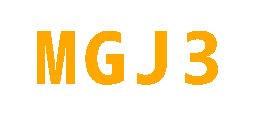
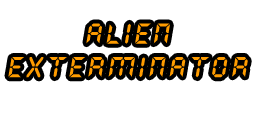
update name

diff --git a/src/MGJ3/Pages/IntroPage.cs b/src/MGJ3/Pages/IntroPage.cs
@@ -89,12 +89,12 @@ namespace MGJ3.Pages
 
             Vector2 screenSize = new Vector2(viewWidth, viewHeight);
             Vector2 txSize2 = new Vector2(_txTitle.Width, _txTitle.Height);
-            Vector2 origin = Vector2.Zero;            
-            Vector2 txPos2 = new Vector2(0, (screenSize.Y - txSize2.Y) / 2f ); //left-center            
+            Vector2 origin = Vector2.Zero;
+            Vector2 txPos2 = new Vector2((screenSize.X - txSize2.X) / 2f, (screenSize.Y - txSize2.Y) / 2f ); //center
 
 
             float fade = 1;
-            fade = this.TransitionDelta;            
+            fade = this.TransitionDelta;
             switch (scheduler.SpanId)
             {
                 case 0:

diff --git a/src/MGJ3.WindowsDX/Properties/AssemblyInfo.cs b/src/MGJ3.WindowsDX/Properties/AssemblyInfo.cs
@@ -5,12 +5,12 @@ using System.Runtime.InteropServices;
 // General Information about an assembly is controlled through the following 
 // set of attributes. Change these attribute values to modify the information
 // associated with an assembly.
-[assembly: AssemblyTitle("MGJ3.WindowsDX")]
+[assembly: AssemblyTitle("Alien Exterminator")]
 [assembly: AssemblyProduct("MGJ3")]
 [assembly: AssemblyConfiguration("")]
 [assembly: AssemblyDescription("")]
 [assembly: AssemblyCompany("")]
-[assembly: AssemblyCopyright("Copyright ©  2021")]
+[assembly: AssemblyCopyright("Copyright © Kastellanos Nikos 2021")]
 [assembly: AssemblyTrademark("")]
 [assembly: AssemblyCulture("")]
 

diff --git a/src/MGJ3.DesktopGL/Properties/AssemblyInfo.cs b/src/MGJ3.DesktopGL/Properties/AssemblyInfo.cs
@@ -5,7 +5,7 @@ using System.Runtime.InteropServices;
 // General Information about an assembly is controlled through the following 
 // set of attributes. Change these attribute values to modify the information
 // associated with an assembly.
-[assembly: AssemblyTitle("MGJ3.DesktopGL")]
+[assembly: AssemblyTitle("Alien Exterminator")]
 [assembly: AssemblyProduct("MGJ3")]
 [assembly: AssemblyConfiguration("")]
 [assembly: AssemblyDescription("")]

diff --git a/src/MGJ3.UWP.Core/Properties/AssemblyInfo.cs b/src/MGJ3.UWP.Core/Properties/AssemblyInfo.cs
@@ -5,7 +5,7 @@ using System.Runtime.InteropServices;
 // General Information about an assembly is controlled through the following 
 // set of attributes. Change these attribute values to modify the information
 // associated with an assembly.
-[assembly: AssemblyTitle("MGJ3.UWP.Core")]
+[assembly: AssemblyTitle("Alien Exterminator")]
 [assembly: AssemblyProduct("MGJ3")]
 [assembly: AssemblyDescription("")]
 [assembly: AssemblyConfiguration("")]

diff --git a/src/MGJ3.UWP.Xaml/Properties/AssemblyInfo.cs b/src/MGJ3.UWP.Xaml/Properties/AssemblyInfo.cs
@@ -5,7 +5,7 @@ using System.Runtime.InteropServices;
 // General Information about an assembly is controlled through the following 
 // set of attributes. Change these attribute values to modify the information
 // associated with an assembly.
-[assembly: AssemblyTitle("MGJ3.UWP.Xaml")]
+[assembly: AssemblyTitle("Alien Exterminator")]
 [assembly: AssemblyProduct("MGJ3")]
 [assembly: AssemblyDescription("")]
 [assembly: AssemblyConfiguration("")]
